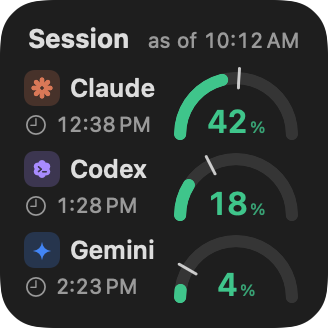
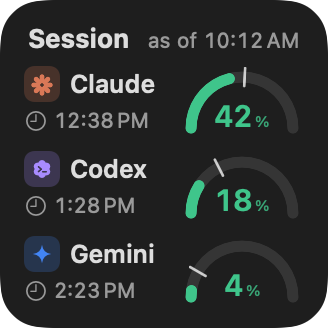
Small gauge widget: two-letter weekday so the reset fits
"Tue 12:20 PM" was cut off beside the 68 pt gauge. The row writes "Tu 12:20 PM"
and the gauge is 62 pt, which fits at the same 10.5 pt type. mockups gets a
--tomorrow flag that renders the widest case.

Assisted-by: Claude <noreply@anthropic.com>

diff --git a/TokenometerCore/Sources/TokenometerUI/GaugeWidgetView.swift b/TokenometerCore/Sources/TokenometerUI/GaugeWidgetView.swift
@@ -104,12 +104,12 @@ public struct GaugeWidgetView: View {
                 VStack(spacing: 0) {
                     ForEach(Array(list.enumerated()), id: \.offset) { index, p in
                         if index > 0 { Spacer(minLength: 0) }
-                        GaugeSideRow(gaugeWidth: 68, gap: 4, whoSpacing: 3) {
+                        GaugeSideRow(gaugeWidth: 62, gap: 2, whoSpacing: 3) {
                             nameLabel(p, tile: 18, size: 12.5, spacing: 5)
                         } reset: {
-                            GaugeReset(window: primary(p), now: now, size: 10.5, iconSize: 10, spacing: 4)
+                            GaugeReset(window: primary(p), now: now, size: 10.5, iconSize: 10, spacing: 3, shortDay: true)
                         } gauge: {
-                            gauge(p, primary(p), width: 68, numberSize: 16)
+                            gauge(p, primary(p), width: 62, numberSize: 15)
                         }
                     }
                 }
@@ -536,11 +536,17 @@ private struct GaugeReset: View {
     let iconSize: CGFloat
     let spacing: CGFloat
     var prefixed = false
+    /// "Tu 12:20 PM" for "Tue 12:20 PM": the small three-provider widget has room for one character
+    /// less than the weekday-and-time needs once the hour is two digits.
+    var shortDay = false
 
     /// Bare lines sit in narrow columns, so a reset more than a week out drops its time ("Oct 16").
     private var time: String? {
         guard let full = Format.resetTime(window?.resetsAt, now: now) else { return nil }
-        return !prefixed && full.contains(",") ? Format.resetsCompact(window?.resetsAt, now: now) : full
+        let text = !prefixed && full.contains(",") ? Format.resetsCompact(window?.resetsAt, now: now) : full
+        guard shortDay, let text, !text.contains(","), let space = text.firstIndex(of: " "),
+              text[..<space].count == 3, text[..<space].allSatisfy(\.isLetter) else { return text }
+        return String(text[..<space].prefix(2)) + text[space...]
     }
 
     var body: some View {

diff --git a/TokenometerCore/Sources/mockups/main.swift b/TokenometerCore/Sources/mockups/main.swift
@@ -36,6 +36,11 @@ if CommandLine.arguments.contains("--near"), !sample.providers.isEmpty {
     sample.providers[0].weekly?.usedPercent = 82
     if !sample.providers[0].scoped.isEmpty { sample.providers[0].scoped[0].usedPercent = 94 }
 }
+// `--tomorrow` moves every session reset to tomorrow at 12:20 PM, the widest "Tue 12:20 PM" a bare reset can be.
+if CommandLine.arguments.contains("--tomorrow") {
+    let tomorrow = Calendar.current.date(bySettingHour: 12, minute: 20, second: 0, of: now.addingTimeInterval(86_400)) ?? now
+    for index in sample.providers.indices { sample.providers[index].session?.resetsAt = tomorrow }
+}
 // `--colorblind` and `--provider-colors` stamp that palette, as the app does when the setting is chosen.
 if CommandLine.arguments.contains("--colorblind") { sample.palette = "colorBlind" }
 if CommandLine.arguments.contains("--provider-colors") { sample.palette = "provider" }

diff --git a/docs/widgets.md b/docs/widgets.md
@@ -23,7 +23,8 @@ The building blocks, all in `TokenometerUI`: `ProviderTile` and `ProviderGlyph` 
 6. Fewer providers means bigger content: gauges and bars grow, or a single provider gets a cell per window and a weekly spend card. No dead space.
 7. Names in narrow places are `Provider.shortName` (Claude, Codex, Gemini); the menu card uses the product name (Claude, Codex, Antigravity).
 8. Frames are the sizes chronod reports on macOS 27: 164x164, 344x164, 344x344 pt, corner radius 22.
-9. Text must not wrap or clip at any size or provider combination. Reset times more than a week out lose their time ("Sep 28") where the column is narrow.
+9. The small three-provider gauge widget writes a reset's weekday with two letters ("Tu 12:20 PM"), because "Tue 12:20 PM" does not fit beside the gauge at a readable size. `mockups --tomorrow` renders the widest case.
+10. Text must not wrap or clip at any size or provider combination. Reset times more than a week out lose their time ("Sep 28") where the column is narrow.
 
 ## Why some things are the way they are
 
